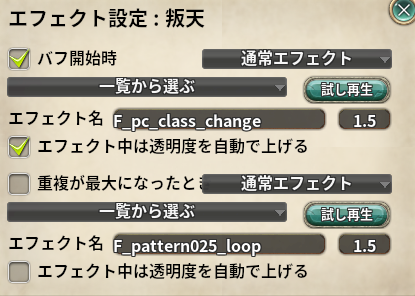
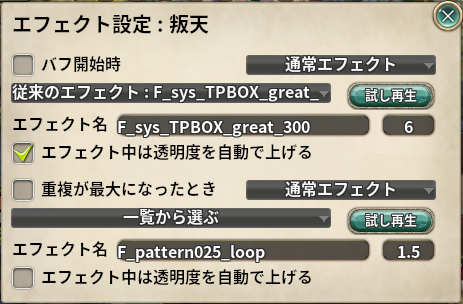
docs(muteki): エフェクト設定の窓のスクリーンショットを撮り直す
窓を広げる前のもので、「重複が最大になったとき」が種類のドロップリストに
隠れて写っていた。alt も実際の画面（従来のエフェクトを選んだ状態）に合わせた。

diff --git a/nexus_addons_p/src/addons/muteki/README.md b/nexus_addons_p/src/addons/muteki/README.md
@@ -86,7 +86,7 @@
 
 バフごとの設定にある **`エフェクト`** ボタンで開きます。
 
-![「エフェクト設定 : 叛天」の窓。上段は「バフ開始時」のチェックと種類のドロップリスト（通常エフェクト）、その下に「一覧から選ぶ」と「試し再生」、エフェクト名 F_pc_class_change と大きさ 1.5、「エフェクト中は透明度を自動で上げる」のチェックが並ぶ。下段は「重複が最大になったとき」で同じ並びになっていて、エフェクト名は F_pattern025_loop](images/03-effect.png)
+![「エフェクト設定 : 叛天」の窓。上段は「バフ開始時」のチェックと種類のドロップリスト（通常エフェクト）、その下に候補の一覧（従来のエフェクト : F_sys_TPBOX_great_300 を選んだ状態）と「試し再生」、エフェクト名 F_sys_TPBOX_great_300 と大きさ 6、ON にした「エフェクト中は透明度を自動で上げる」のチェックが並ぶ。下段は「重複が最大になったとき」で同じ並びになっていて、エフェクト名は F_pattern025_loop、大きさは 1.5](images/03-effect.png)
 
 | 項目 | 説明 |
 | --- | --- |
